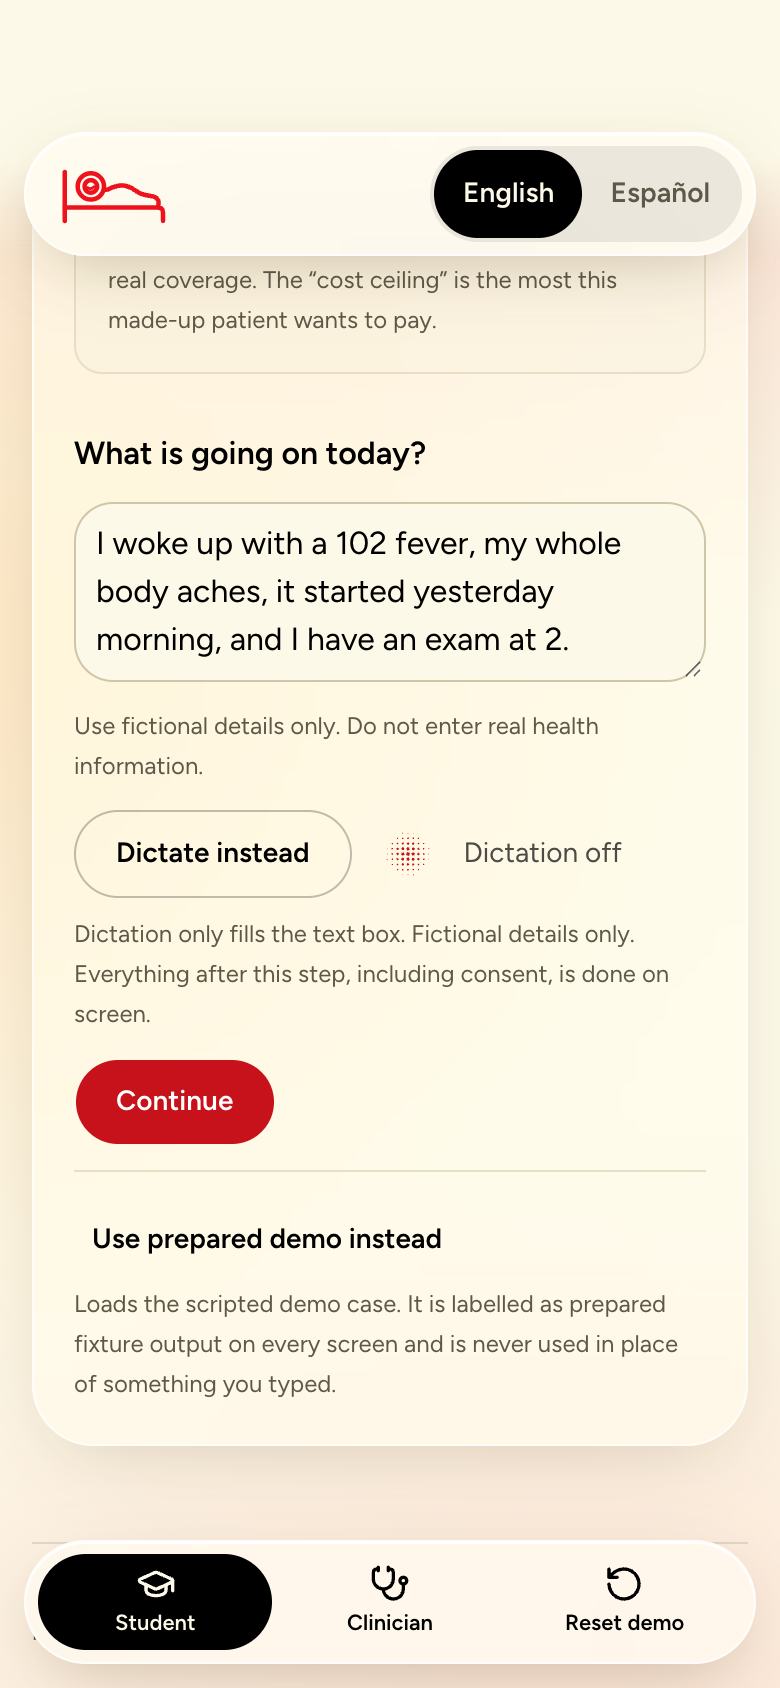
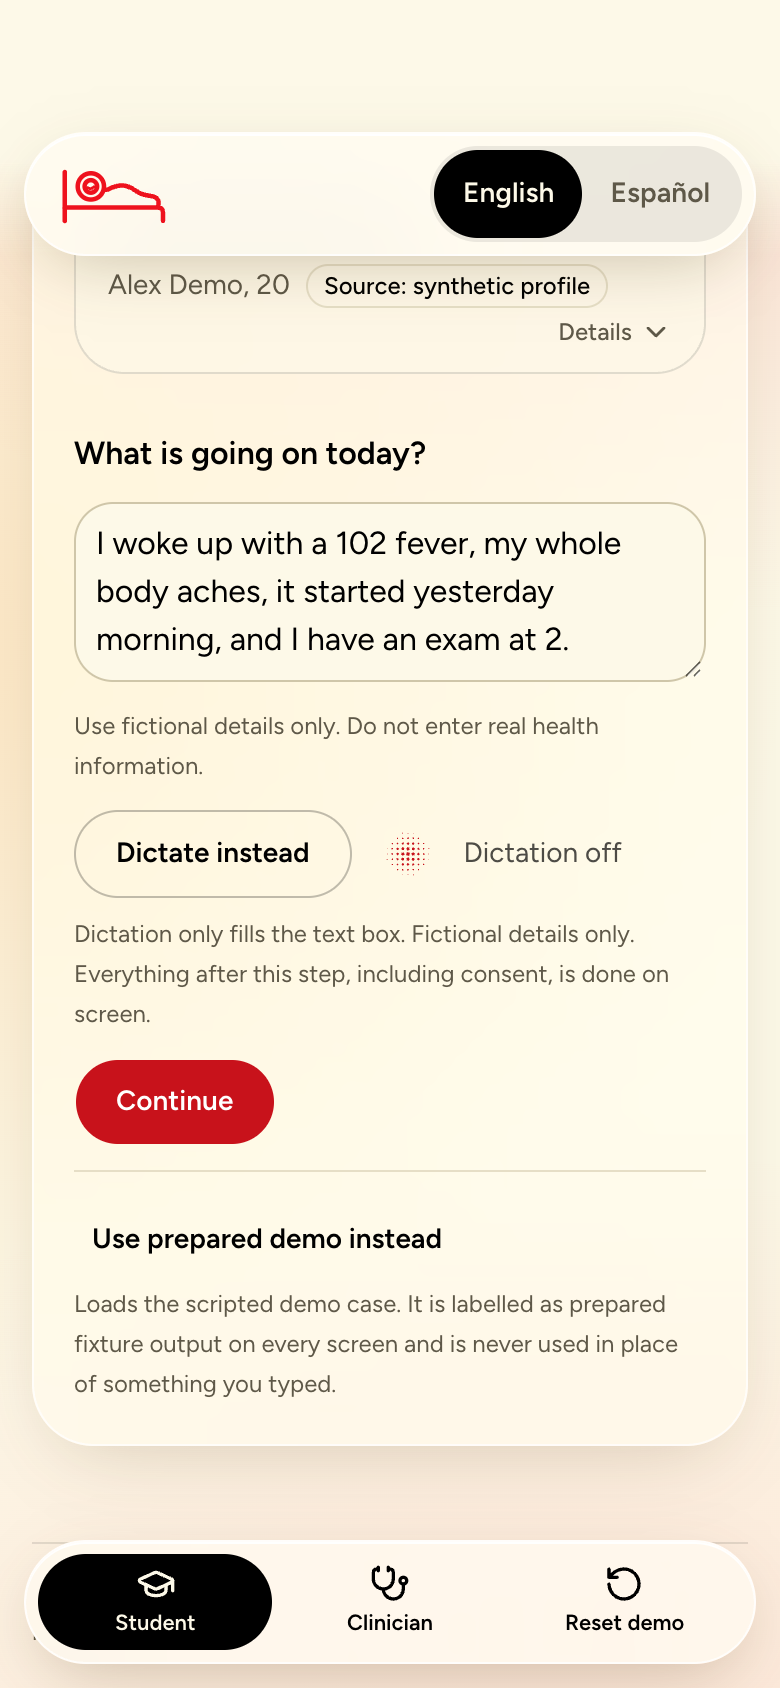
feat: open up the clinician workspace and lead the student screen with its question
Clinician: the options table lost its first two columns at desktop width,
because its layout followed the window while it sat in a narrow column. It
now follows its own width (table from 900px, otherwise cards, two across
when they fit). The workspace is the page, not a box on it, and takes the
margins on wide screens; the queue is a sticky rail; panels and headings
have real hierarchy.

Student: the made-up patient opens as one line with the rest under
"Details", so "What is going on today?" is on a phone's first screen.

The responsive audit gains a check for content that only fits by scrolling
sideways inside its own box, proven against the old table.

Changed region(s): [[0.4, 0.154, 0.8, 0.2156], [0.1231, 0.154, 0.3692, 0.2156]]

diff --git a/src/components/hcp/options-table.tsx b/src/components/hcp/options-table.tsx
@@ -3,6 +3,7 @@
 import { Badge } from "@/components/ui/badge";
 import { Button } from "@/components/ui/button";
 import { Table, TableBody, TableCaption, TableCell, TableHead, TableHeader, TableRow } from "@/components/ui/table";
+import { useElementWidth } from "@/lib/client/use-element-width";
 import { useMediaQuery } from "@/lib/client/use-media-query";
 import { formatMockDollars } from "@/lib/format";
 import type { OptionRow } from "@/lib/schemas";
@@ -40,6 +41,9 @@ function Stock({ row }: { row: OptionRow }) {
     </span>
   );
 }
+
+/** Seven columns, each with its mock label beside the value, need about this much room. */
+const TABLE_MIN_WIDTH = 900;
 
 const CAPTION =
   "Synthetic demo options for the fictional plan. All costs, coverage, and stock are mock data, not verified. The clinician chooses; this list does not recommend.";
@@ -90,19 +94,23 @@ export function OptionsTable({
   /** Optional selection control per row, supplied by the attach flow. */
   renderSelect?: (row: OptionRow) => React.ReactNode;
 }) {
-  const wide = useMediaQuery("(min-width: 768px)", true);
+  const windowWide = useMediaQuery("(min-width: 768px)", true);
+  // The table sits in a column, so the window's width says little. Measure the room it really has;
+  // until that is known (or where it cannot be measured) the window decides.
+  const [ref, width] = useElementWidth<HTMLDivElement>();
+  const wide = windowWide && (width === null || width >= TABLE_MIN_WIDTH);
 
   if (!wide) {
     return (
-      <div className="flex flex-col gap-3">
-        <ul aria-label="Demo options" className="flex flex-col gap-3">
+      <div ref={ref} className="@container flex flex-col gap-3">
+        <ul aria-label="Demo options" className="grid grid-cols-1 gap-3 @xl:grid-cols-2">
           {rows.map((row) => (
-            <li key={`${row.therapyId}/${row.pharmacyId}`} className="rounded-lg border p-3 text-sm">
+            <li key={`${row.therapyId}/${row.pharmacyId}`} className="flex flex-col rounded-2xl border border-ink/12 bg-paper/70 p-4 text-sm">
               <div className="mb-2 flex flex-wrap items-center gap-2">
                 <span className="font-medium">{row.therapyName}</span>
                 <Badge variant={row.generic ? "default" : "outline"}>{row.generic ? "Generic" : "Brand"}</Badge>
               </div>
-              <dl className="flex flex-col gap-2">
+              <dl className="mb-3 flex flex-col gap-2">
                 {(
                   [
                     ["Pharmacy", row.pharmacyName],
@@ -129,7 +137,7 @@ export function OptionsTable({
                 </div>
               </dl>
               {renderSelect && (
-                <label className="mt-2 flex min-h-11 items-center gap-3 border-t pt-2 font-medium">
+                <label className="mt-auto flex min-h-11 cursor-pointer items-center gap-3 border-t border-ink/10 pt-2 font-medium">
                   {renderSelect(row)} Select this option
                 </label>
               )}
@@ -142,6 +150,7 @@ export function OptionsTable({
   }
 
   return (
+    <div ref={ref}>
     <Table>
       <TableCaption>{CAPTION}</TableCaption>
       <TableHeader>
@@ -189,5 +198,6 @@ export function OptionsTable({
         })}
       </TableBody>
     </Table>
+    </div>
   );
 }

diff --git a/src/components/student/profile-summary.tsx b/src/components/student/profile-summary.tsx
@@ -1,5 +1,6 @@
 "use client";
 
+import { ChevronDown } from "lucide-react";
 import { Badge } from "@/components/ui/badge";
 import { useLanguage } from "@/lib/client/language-store";
 import { formatIsoWallTime, formatMockDollars } from "@/lib/format";
@@ -28,18 +29,34 @@ function ProfileSource() {
   return <Badge variant="outline">{t.common.sourceProfile}</Badge>;
 }
 
-/** Profile fields come from the loaded fixture, never from what the student types (§6.1). */
+/**
+ * Profile fields come from the loaded fixture, never from what the student types (§6.1).
+ *
+ * It opens as one line (who the made-up patient is, with the plan's mock label) so the
+ * question the student came to answer is the first thing under the stepper, even on a
+ * phone. Everything else is one tap away, and nothing is removed.
+ */
 export function ProfileSummary({ profile }: { profile: StudentProfileSummary }) {
   const { language, t } = useLanguage();
   return (
-    <section aria-labelledby="profile-heading" className="rounded-lg border bg-muted/30 p-4">
-      <h2 id="profile-heading" className="mb-3 text-sm font-semibold">
-        {t.profile.title}
-      </h2>
+    <section aria-labelledby="profile-heading">
+      <details className="group rounded-2xl border border-ink/12 bg-paper/70">
+        <summary className="flex min-h-11 cursor-pointer list-none flex-wrap items-center gap-x-3 gap-y-1 rounded-2xl px-4 py-3 text-sm outline-none focus-visible:ring-3 focus-visible:ring-ring/50 [&::-webkit-details-marker]:hidden">
+          <h2 id="profile-heading" className="font-semibold">
+            {t.profile.title}
+          </h2>
+          {/* Name and age live here only; the plan keeps its mock label beside it, in the details. */}
+          <span className="flex flex-wrap items-center gap-2 text-ink-soft">
+            <span className="sr-only">{t.profile.nameAge}: </span>
+            {profile.name}, {profile.age} <ProfileSource />
+          </span>
+          <span className="ml-auto inline-flex items-center gap-1 text-xs font-medium text-ink-soft">
+            {t.profile.details}
+            <ChevronDown aria-hidden className="size-4 transition-transform duration-200 group-open:rotate-180 motion-reduce:transition-none" />
+          </span>
+        </summary>
+        <div className="border-t border-ink/10 px-4 pt-3 pb-4">
       <dl className="flex flex-col gap-2 text-sm">
-        <Row label={t.profile.nameAge}>
-          {profile.name}, {profile.age} <ProfileSource />
-        </Row>
         <Row label={t.profile.plan}>
           {profile.planName} <Badge variant="secondary">{profile.planMockLabel}</Badge> <ProfileSource />
         </Row>
@@ -59,6 +76,8 @@ export function ProfileSummary({ profile }: { profile: StudentProfileSummary }) 
         {t.profile.clockNote}
       </p>
       <p className="mt-2 text-xs leading-5 text-muted-foreground">{t.profile.explain}</p>
+        </div>
+      </details>
     </section>
   );
 }

diff --git a/src/components/hcp/clinician-workspace.tsx b/src/components/hcp/clinician-workspace.tsx
@@ -4,7 +4,6 @@ import { useState } from "react";
 import { EncounterView } from "@/components/hcp/encounter-view";
 import { Queue } from "@/components/hcp/queue";
 import type { StudentProfileSummary } from "@/components/student/profile-summary";
-import { Card, CardContent, CardDescription, CardHeader, CardTitle } from "@/components/ui/card";
 import { encountersQueueResponseSchema } from "@/lib/api-contracts";
 import { sessionIdFromToken, useSessionToken } from "@/lib/client/session-store";
 import { usePolling } from "@/lib/client/use-polling";
@@ -24,18 +23,20 @@ function SessionWorkspace({ profile, preparedSpokenScript, voiceEnabled = false 
   const openId = queue.data?.some((item) => item.id === selectedId) ? selectedId : null;
 
   return (
-    <Card lang="en">
-      <CardHeader>
-        <CardTitle>
-          <h1>Clinician workspace</h1>
-        </CardTitle>
-        <CardDescription>
+    // The workspace is the page, not a box on it, and on a wide screen it takes the margins too:
+    // a clinician reads a brief and compares options side by side, and both want room.
+    <div lang="en" className="page-bleed flex flex-col gap-8 lg:-mx-[var(--bleed)]">
+      <header>
+        <h1 className="text-4xl sm:text-5xl">Clinician workspace</h1>
+        <p className="mt-3 max-w-[70ch] leading-7 text-ink-soft">
           Intakes shared in this demo session. Everything shown is synthetic; the brief supports the
           clinician and does not decide anything.
-        </CardDescription>
-      </CardHeader>
-      <CardContent className="grid grid-cols-[minmax(0,1fr)] gap-6 md:grid-cols-[minmax(0,1fr)_minmax(0,2fr)]">
-        <Queue queue={queue} selectedId={openId} onSelect={setSelectedId} />
+        </p>
+      </header>
+      <div className="grid grid-cols-[minmax(0,1fr)] items-start gap-6 md:grid-cols-[minmax(0,19rem)_minmax(0,1fr)] lg:gap-8">
+        <div className="glass rounded-3xl p-4 sm:p-5 md:sticky md:top-40">
+          <Queue queue={queue} selectedId={openId} onSelect={setSelectedId} />
+        </div>
         <div className="min-w-0">
           {openId ? (
             <EncounterView
@@ -46,12 +47,12 @@ function SessionWorkspace({ profile, preparedSpokenScript, voiceEnabled = false 
               voiceEnabled={voiceEnabled}
             />
           ) : (
-            <p className="rounded-lg border border-dashed p-4 text-sm text-muted-foreground">
+            <p className="rounded-3xl border-2 border-dashed border-ink/20 p-8 text-center leading-7 text-ink-soft">
               {queue.data && queue.data.length > 0 ? "Open an intake from the queue to see its brief." : "Waiting for a shared intake."}
             </p>
           )}
         </div>
-      </CardContent>
-    </Card>
+      </div>
+    </div>
   );
 }

diff --git a/src/components/hcp/queue.tsx b/src/components/hcp/queue.tsx
@@ -29,7 +29,7 @@ export function Queue({
   return (
     <section aria-labelledby="queue-heading" className="flex flex-col gap-3">
       <div className="flex items-center justify-between gap-2">
-        <h2 id="queue-heading" className="text-base font-semibold">
+        <h2 id="queue-heading" className="display text-xl">
           Demo queue
         </h2>
         {items && (
@@ -65,8 +65,9 @@ export function Queue({
                 aria-current={item.id === selectedId}
                 onClick={() => onSelect(item.id)}
                 className={cn(
-                  "flex w-full flex-col gap-1.5 rounded-lg border p-3 text-left outline-none transition-colors hover:bg-muted focus-visible:ring-3 focus-visible:ring-ring/50",
-                  item.id === selectedId && "border-primary bg-muted",
+                  "relative flex w-full cursor-pointer flex-col gap-1.5 overflow-hidden rounded-2xl border border-ink/12 bg-paper/70 p-3.5 pl-5 text-left outline-none transition-colors duration-200 hover:border-ink/40 focus-visible:ring-3 focus-visible:ring-ring/50",
+                  // The open intake carries the one red line.
+                  item.id === selectedId && "border-ink bg-paper before:absolute before:inset-y-3 before:left-2 before:w-[3px] before:rounded-full before:bg-brand-red",
                   item.status === "emergency" && "border-destructive/60",
                 )}
               >

diff --git a/src/lib/client/use-element-width.ts b/src/lib/client/use-element-width.ts
@@ -1,0 +1,24 @@
+"use client";
+
+import { useEffect, useRef, useState } from "react";
+
+/**
+ * The rendered width of an element, for layouts that depend on the room they
+ * actually have and not on the window. It is null until measured, and stays null
+ * where ResizeObserver does not exist (tests, very old browsers), so callers
+ * need a fallback.
+ */
+export function useElementWidth<T extends HTMLElement>() {
+  const ref = useRef<T>(null);
+  const [width, setWidth] = useState<number | null>(null);
+
+  useEffect(() => {
+    const element = ref.current;
+    if (!element || typeof ResizeObserver === "undefined") return;
+    const observer = new ResizeObserver(([entry]) => setWidth(Math.round(entry.contentRect.width)));
+    observer.observe(element);
+    return () => observer.disconnect();
+  }, []);
+
+  return [ref, width] as const;
+}

diff --git a/src/components/hcp/encounter-view.tsx b/src/components/hcp/encounter-view.tsx
@@ -41,9 +41,9 @@ export function EncounterView({
   const positive = RED_FLAG_DEFINITIONS.filter((flag) => encounter.intake.redFlags[flag.key] === true);
 
   return (
-    <article aria-labelledby="encounter-heading" className="flex flex-col gap-4">
+    <article aria-labelledby="encounter-heading" className="flex flex-col gap-5">
       <div className="flex flex-wrap items-center justify-between gap-2">
-        <h2 id="encounter-heading" className="text-base font-semibold">
+        <h2 id="encounter-heading" className="display text-3xl">
           {profile.name}
         </h2>
         <div className="flex flex-wrap items-center gap-2">

diff --git a/src/components/hcp/voice-control.tsx b/src/components/hcp/voice-control.tsx
@@ -102,10 +102,10 @@ function VoiceSession({ actions }: { actions: VoiceActions }) {
   }
 
   return (
-    <section aria-labelledby="voice-heading" className="flex flex-col gap-3 rounded-lg border p-4">
+    <section aria-labelledby="voice-heading" className="flex flex-col gap-3 glass rounded-3xl p-5 sm:p-6">
       <div className="flex flex-wrap items-center justify-between gap-2">
         <div>
-          <h3 id="voice-heading" className="text-sm font-semibold">
+          <h3 id="voice-heading" className="display text-xl">
             Voice (optional)
           </h3>
           <p className="text-xs leading-5 text-muted-foreground">

diff --git a/src/components/hcp/visit-panel.tsx b/src/components/hcp/visit-panel.tsx
@@ -182,9 +182,9 @@ export function VisitPanel({
       )}
 
       {canAttach && !done && selected && (
-        <section aria-labelledby="attach-heading" className="flex flex-col gap-4 rounded-lg border-2 p-4">
+        <section aria-labelledby="attach-heading" className="flex flex-col gap-4 rounded-3xl border-2 border-ink bg-paper/80 p-5 sm:p-6">
           <div>
-            <h3 id="attach-heading" className="text-sm font-semibold">
+            <h3 id="attach-heading" className="display text-xl">
               Packet for the student
             </h3>
             <p className="text-sm text-muted-foreground">

diff --git a/src/components/hcp/manufacturer-drawer.tsx b/src/components/hcp/manufacturer-drawer.tsx
@@ -19,7 +19,7 @@ export function ManufacturerDrawer({
   const therapies = Object.entries(unlocked);
 
   return (
-    <section aria-labelledby="manufacturer-heading" className="rounded-lg border p-4">
+    <section aria-labelledby="manufacturer-heading" className="rounded-2xl border border-ink/12 bg-paper/70 p-4">
       <h3 id="manufacturer-heading" className="flex items-center gap-2 text-sm font-semibold">
         {therapies.length === 0 ? <LockIcon aria-hidden className="size-4" /> : <LockOpenIcon aria-hidden className="size-4" />}
         Manufacturer resources

diff --git a/src/components/hcp/source-panel.tsx b/src/components/hcp/source-panel.tsx
@@ -27,8 +27,8 @@ export function SourcePanel({ encounter, profile }: { encounter: Encounter; prof
   const onset = formatIsoWallTime(intake.onsetIso);
 
   return (
-    <section aria-labelledby="sources-heading" className="rounded-lg border p-4">
-      <h3 id="sources-heading" className="text-sm font-semibold">
+    <section aria-labelledby="sources-heading" className="glass rounded-3xl p-5 sm:p-6">
+      <h3 id="sources-heading" className="display text-xl">
         Source values
       </h3>
       <p className="mb-2 text-xs leading-5 text-muted-foreground">

diff --git a/src/app/globals.css b/src/app/globals.css
@@ -229,7 +229,8 @@
   /* The hero's device column grows into the empty right margin on wide screens, so the
    laptop and phone can be large without squeezing the headline. Never past the viewport. */
 @media (min-width: 1024px) {
-  .hero-bleed {
+  .hero-bleed,
+  .page-bleed {
     /* Only the amount lives here. This file's classes sit in the components layer, where
        utilities such as w-full override them, so the width and margin are set with utilities. */
     --bleed: max(0px, min(15rem, (100vw - 72rem) / 2 - 1.5rem));

diff --git a/src/components/hcp/options-panel.tsx b/src/components/hcp/options-panel.tsx
@@ -170,9 +170,9 @@ export function OptionsPanel({
   }
 
   return (
-    <section aria-labelledby="options-heading" className="flex flex-col gap-4 rounded-lg border p-4">
+    <section aria-labelledby="options-heading" className="flex flex-col gap-4 glass rounded-3xl p-5 sm:p-6">
       <div>
-        <h3 id="options-heading" className="text-sm font-semibold">
+        <h3 id="options-heading" className="display text-xl">
           Access options
         </h3>
         <p className="text-xs leading-5 text-muted-foreground">
